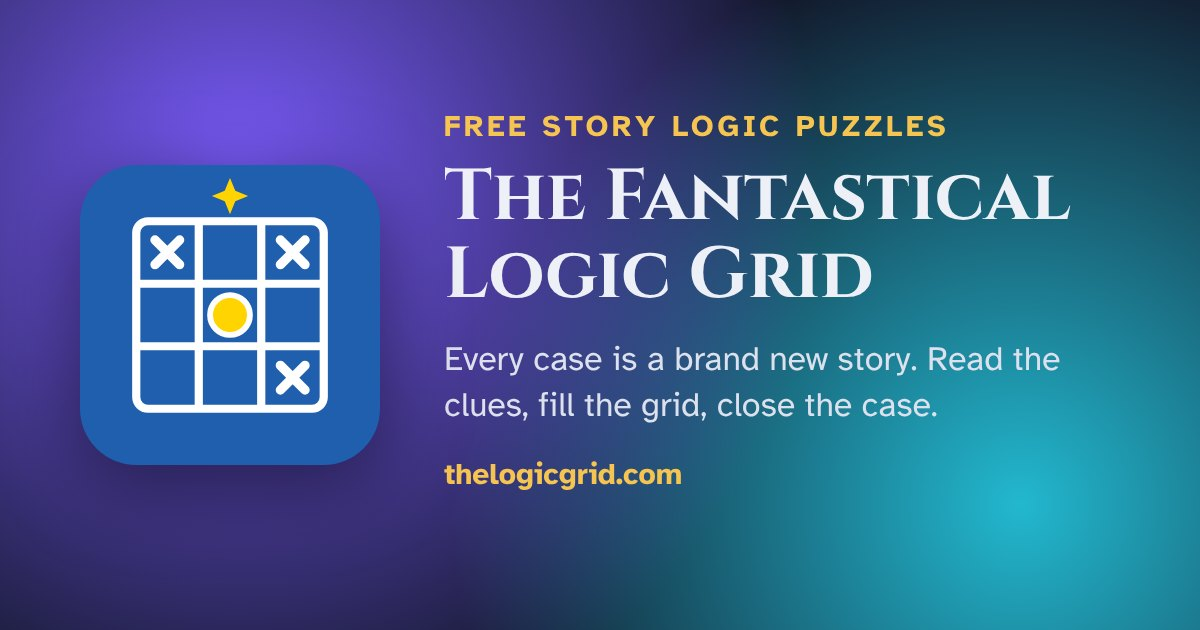
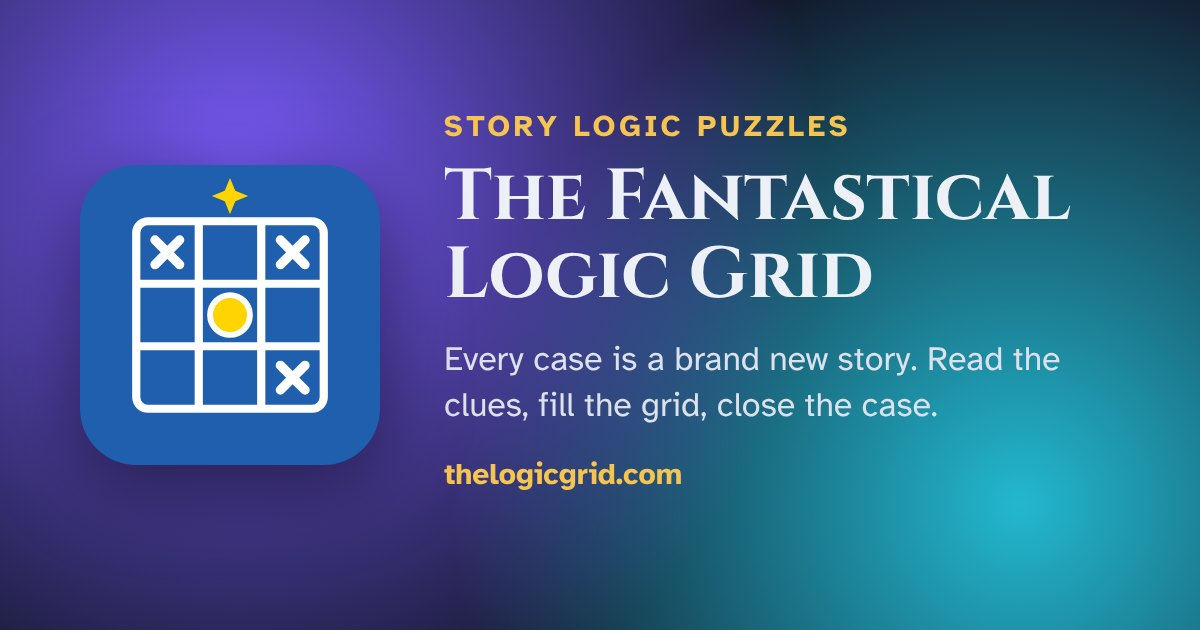
Remove "free" from the share title and share picture
The link preview title is now just the game name, and the share
picture's top line reads "Story logic puzzles".

Claude-Session: https://claude.ai/code/session_01YAF35uhUv9YwPwyzmq93PV

Changed region(s): [[0.37, 0.181, 0.8017, 0.2413]]

diff --git a/seo/og-card.html b/seo/og-card.html
@@ -19,7 +19,7 @@ p.tag { font-size: 34px; line-height: 1.35; margin: 0; color: #DDE1EE; }
 <body>
 <img src="../web/icons/icon.svg" alt="">
 <div>
-  <p class="eyebrow">Free story logic puzzles</p>
+  <p class="eyebrow">Story logic puzzles</p>
   <h1>The Fantastical Logic Grid</h1>
   <p class="tag">Every case is a brand new story. Read the clues, fill the grid, close the case.</p>
   <p class="url">thelogicgrid.com</p>
